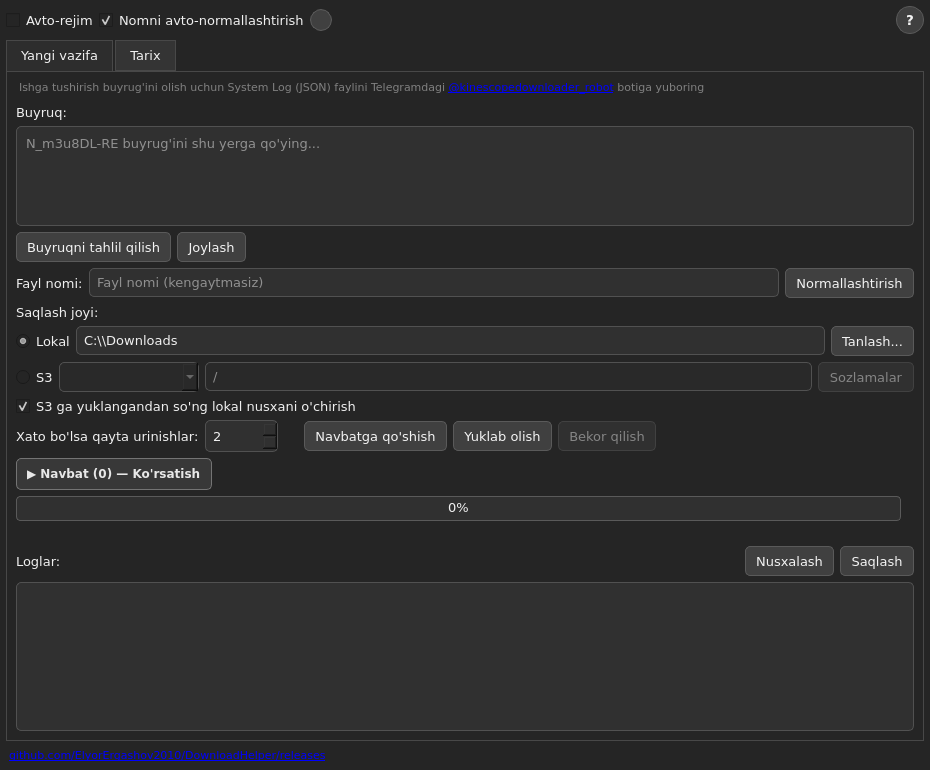
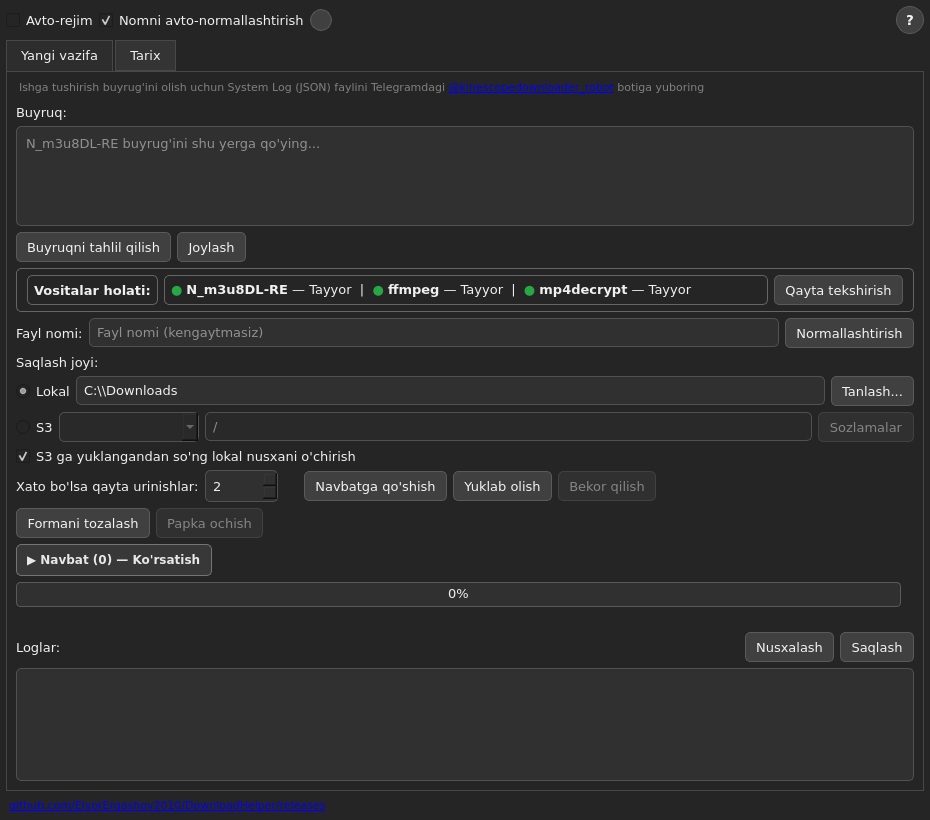
Add usability controls for tools, folders and form reset

diff --git a/app/main_window.py b/app/main_window.py
@@ -8,9 +8,10 @@ from dataclasses import dataclass
 from PySide6.QtWidgets import (
     QMainWindow, QTabWidget, QWidget, QVBoxLayout, QHBoxLayout,
     QPushButton, QLabel, QMessageBox, QSpinBox, QFileDialog, QListWidget,
-    QListWidgetItem, QCheckBox, QApplication,
+    QListWidgetItem, QCheckBox, QApplication, QFrame,
 )
-from PySide6.QtCore import QSize, Qt, QTimer
+from PySide6.QtCore import QSize, Qt, QTimer, QUrl
+from PySide6.QtGui import QDesktopServices
 
 from app.core.command_parser import parse_command, ParsedCommand
 from app.core.normalizer import normalize_filename
@@ -69,6 +70,7 @@ class MainWindow(QMainWindow):
         self._queue: list[QueueItem] = []
         self._s3_failures: list[S3Failure] = []
         self._parsed: ParsedCommand | None = None
+        self._last_output_dir = ""
 
         # Jarayon yangilanishini cheklash (200 ms da bir martadan ko'p emas)
         self._progress_timer = QTimer(self)
@@ -137,6 +139,7 @@ class MainWindow(QMainWindow):
 
         # S3 profillarini kombo-boksga yuklash
         self._refresh_s3_profiles()
+        self._refresh_tools_status()
 
     # ── «Yangi vazifa» varag'i ───────────────────────────────────
 
@@ -149,6 +152,26 @@ class MainWindow(QMainWindow):
         self._cmd_input.paste_btn.clicked.connect(self._on_paste_command)
         self._cmd_input.auto_parse_requested.connect(self._on_parse)
         layout.addWidget(self._cmd_input)
+
+        # Yordamchi executable fayllarning holati — yuklashdan oldin ham ko'rinadi.
+        self._tools_status_box = QFrame()
+        self._tools_status_box.setStyleSheet(
+            "QFrame { border: 1px solid #666666; border-radius: 5px; padding: 2px; }"
+        )
+        tools_layout = QHBoxLayout(self._tools_status_box)
+        tools_layout.setContentsMargins(8, 4, 8, 4)
+        tools_title = QLabel("Vositalar holati:")
+        tools_title.setStyleSheet("font-weight: bold;")
+        tools_layout.addWidget(tools_title)
+        self._tools_status_label = QLabel()
+        self._tools_status_label.setWordWrap(True)
+        self._tools_status_label.setTextFormat(Qt.TextFormat.RichText)
+        tools_layout.addWidget(self._tools_status_label, 1)
+        self._tools_status_refresh_btn = QPushButton("Qayta tekshirish")
+        self._tools_status_refresh_btn.setToolTip("Yordamchi vositalar holatini qayta tekshirish")
+        self._tools_status_refresh_btn.clicked.connect(self._refresh_tools_status)
+        tools_layout.addWidget(self._tools_status_refresh_btn)
+        layout.addWidget(self._tools_status_box)
 
         self._file_name = FileNameEdit()
         self._file_name.normalize_btn.clicked.connect(self._on_normalize)
@@ -180,6 +203,20 @@ class MainWindow(QMainWindow):
         ctrl_row.addWidget(self._stop_btn)
         ctrl_row.addStretch()
         layout.addLayout(ctrl_row)
+
+        # Ikkinchi darajali amallar — joriy yuklashni tasodifan buzmaydi.
+        utility_row = QHBoxLayout()
+        self._clear_form_btn = QPushButton("Formani tozalash")
+        self._clear_form_btn.setToolTip("Buyruq, nom, progress va loglarni tozalash")
+        self._clear_form_btn.clicked.connect(self._on_clear_form)
+        utility_row.addWidget(self._clear_form_btn)
+        self._open_folder_btn = QPushButton("Papka ochish")
+        self._open_folder_btn.setToolTip("Oxirgi muvaffaqiyatli yuklash papkasini ochish")
+        self._open_folder_btn.setEnabled(False)
+        self._open_folder_btn.clicked.connect(self._on_open_output_folder)
+        utility_row.addWidget(self._open_folder_btn)
+        utility_row.addStretch()
+        layout.addLayout(utility_row)
 
         # Ochiladigan navbat — ramkali tugma, tugma ekanligi aniq ko'rinadi.
         queue_header = QHBoxLayout()
@@ -319,6 +356,67 @@ class MainWindow(QMainWindow):
         self._dest_panel.load_s3_profiles(names, active)
 
     # ── Umumiy slotlar ───────────────────────────────────────────
+
+    def _refresh_tools_status(self):
+        """Yordamchi executable fayllar topilganini UI'da ko'rsatadi."""
+        statuses = check_all_tools()
+        parts = []
+        paths = []
+        for status in statuses:
+            if status.found:
+                parts.append(
+                    f'<span style="color:#28a745;">●</span> '
+                    f'<b>{status.name}</b> — Tayyor'
+                )
+                paths.append(f'{status.name}: {status.path}')
+            else:
+                parts.append(
+                    f'<span style="color:#d9534f;">●</span> '
+                    f'<b>{status.name}</b> — Topilmadi'
+                )
+                paths.append(f'{status.name}: Topilmadi')
+        self._tools_status_label.setText("&nbsp;&nbsp;|&nbsp;&nbsp;".join(parts))
+        self._tools_status_label.setToolTip("\n".join(paths))
+        return statuses
+
+    def _on_clear_form(self):
+        """Yangi vazifa uchun joriy forma ma'lumotlarini tozalaydi."""
+        if self._downloader.is_running() or (self._uploader and self._uploader.isRunning()):
+            return
+        self._cmd_input.set_text("")
+        self._cmd_input.text_edit.setFocus()
+        self._file_name.set_name("")
+        self._parsed = None
+        self._progress_timer.stop()
+        self._stream_lines.clear()
+        self._full_log.clear()
+        self._progress.reset()
+        self._progress.set_status("")
+        self._log_panel.clear()
+
+    def _set_last_output_directory(self, directory: str):
+        """Oxirgi muvaffaqiyatli yuklash papkasini eslab qoladi."""
+        if directory and os.path.isdir(directory):
+            self._last_output_dir = directory
+            self._open_folder_btn.setEnabled(True)
+
+    def _on_open_output_folder(self):
+        """Oxirgi tayyor fayl joylashgan lokal papkani tizim fayl oynasida ochadi."""
+        if not self._last_output_dir or not os.path.isdir(self._last_output_dir):
+            QMessageBox.information(
+                self,
+                "Papka topilmadi",
+                "Avval muvaffaqiyatli yuklashni yakunlang.",
+            )
+            self._open_folder_btn.setEnabled(False)
+            return
+        opened = QDesktopServices.openUrl(QUrl.fromLocalFile(self._last_output_dir))
+        if not opened:
+            QMessageBox.warning(
+                self,
+                "Xato",
+                "Papka oynasini ochib bo'lmadi.",
+            )
 
     def _on_parse(self):
         raw = self._cmd_input.get_text()
@@ -632,6 +730,7 @@ class MainWindow(QMainWindow):
 
     def _process_next_in_queue(self):
         if not self._queue:
+            self._clear_form_btn.setEnabled(True)
             self._update_queue_label()
             if self._s3_failures:
                 n = len(self._s3_failures)
@@ -670,8 +769,8 @@ class MainWindow(QMainWindow):
             self._start_s3_upload(item)
             return
 
-        # Vositalarni tekshirish
-        statuses = check_all_tools()
+        # Vositalarni tekshirish va holat panelini yangilash
+        statuses = self._refresh_tools_status()
         self._log(format_tool_check_log(statuses))
         missing = [s.name for s in statuses if not s.found]
         if missing:
@@ -723,6 +822,7 @@ class MainWindow(QMainWindow):
         self._log(f"Ishga tushirish: {' '.join(args)}\n\n")
         self._download_btn.setEnabled(False)
         self._stop_btn.setEnabled(True)
+        self._clear_form_btn.setEnabled(False)
         self._downloader.start(args)
 
     def _on_stop(self):
@@ -754,6 +854,7 @@ class MainWindow(QMainWindow):
         self._progress_timer.stop()
         self._download_btn.setEnabled(True)
         self._stop_btn.setEnabled(False)
+        self._clear_form_btn.setEnabled(True)
         self._progress.set_finished(False)
         self._progress.set_status("Bekor qilindi")
         if not item or not item.task_id:
@@ -872,6 +973,7 @@ class MainWindow(QMainWindow):
             self._start_s3_upload(item)
         else:
             self._progress.set_finished(True)
+            self._set_last_output_directory(item.save_dir)
             if item.task_id:
                 self._task_mgr.update_status(item.task_id, "Done")
                 self._save_task_log(item.task_id)
@@ -888,6 +990,7 @@ class MainWindow(QMainWindow):
         self._progress.reset()
         self._progress.set_status("S3 ga yuklanmoqda...")
         self._stop_btn.setEnabled(True)
+        self._clear_form_btn.setEnabled(False)
         self._log("\nS3 ga yuklash boshlanmoqda...\n")
 
         # Saqlangan yo'l bo'lsa (S3 qayta urinish), shuni ishlatamiz
@@ -964,6 +1067,8 @@ class MainWindow(QMainWindow):
                 "S3 xatosi", f"{item.name} — {message}", success=False
             )
         self._progress.set_finished(success)
+        if success and item:
+            self._set_last_output_directory(item.save_dir)
         self._current_item = None
         self._uploader = None
         self._download_btn.setEnabled(True)

diff --git a/app/dialogs/help_dialog.py b/app/dialogs/help_dialog.py
@@ -43,6 +43,11 @@ Yuklash boshlanganda dastur uchala vositaning mavjudligini avtomatik
 tekshiradi va natijani logga chiqaradi. Agar biror vosita topilmasa —
 yuklash boshlanmaydi.</p>
 
+<p><b>Vositalar holati</b><br>
+Buyruq qatori ostidagi panel N_m3u8DL-RE, ffmpeg va mp4decrypt topilganini
+<b>Tayyor</b> yoki <b>Topilmadi</b> holatida ko'rsatadi. Fayllarni dastur
+papkasiga qo'ygandan keyin <b>«Qayta tekshirish»</b> tugmasini bosing.</p>
+
 <hr>
 
 <h3>«Yangi vazifa» varag'i</h3>
@@ -104,6 +109,10 @@ tozalash mumkin.</p>
 <ul>
   <li><b>«Yuklab olish»</b> — yuklashni (yoki navbatni) boshlaydi</li>
   <li><b>«Bekor qilish»</b> — joriy yuklashni to'xtatadi va navbatni tozalaydi</li>
+  <li><b>«Papka ochish»</b> — oxirgi muvaffaqiyatli yuklashning lokal papkasini
+      Windows Explorer'da ochadi</li>
+  <li><b>«Formani tozalash»</b> — buyruq, nom, progress va loglarni tozalaydi;
+      Lokal/S3 sozlamalari hamda navbat saqlanadi</li>
 </ul>
 
 <p><b>8. Jarayon va loglar</b><br>

diff --git a/README.md b/README.md
@@ -38,9 +38,11 @@ Hammasi bir papkada bo'lishi kerak.
 
 1. GitHub **Releases** sahifasidan ZIP faylni yuklab oling va Extract All qiling.
 2. To'rtta `.exe` fayl bir papkada turganini tekshiring.
-3. `DownloadHelper.exe`ni oching.
+3. `DownloadHelper.exe`ni oching va **Vositalar holati** panelida uchala vosita
+   `Tayyor` ekanini tekshiring.
 4. Telegram bot qaytargan N_m3u8DL-RE buyrug'ini nusxalang va **«Joylash»**ni bosing.
 5. Saqlash joyini tanlang, so'ng **«Yuklab olish»**ni bosing.
+6. Yuklash tugagach **«Papka ochish»** orqali tayyor fayl joylashgan papkani oching.
 
 ### Windows imzosi va xavfsizlik
 
@@ -154,6 +156,14 @@ botiga yuboring. Bot N_m3u8DL-RE uchun tayyor buyruqni qaytaradi.
 - **«Normallashtirish»** — kirillni lotinchaga o'giradi, probel va maxsus belgilarni
   pastki chiziqqa almashtiradi («Ўзбек видео» → `Uzbek_video`)
 
+#### Vositalar holati
+- **«Vositalar holati»** paneli N_m3u8DL-RE, ffmpeg va mp4decrypt topilganini
+  darhol ko'rsatadi: `Tayyor` yoki `Topilmadi`
+- Fayllarni dastur papkasiga qo'ygandan so'ng **«Qayta tekshirish»** tugmasini
+  bosing
+- Biror vosita `Topilmadi` holatida bo'lsa, yuklashni boshlashdan oldin uni
+  dastur joylashgan papkaga qo'ying
+
 #### Saqlash joyi
 - **Lokal** — **«Tanlash...»** tugmasi bilan papka tanlanadi. Oxirgi papka seanslar
   orasida eslab qolinadi
@@ -194,6 +204,13 @@ botiga yuboring. Bot N_m3u8DL-RE uchun tayyor buyruqni qaytaradi.
 - N_m3u8DL-RE chiqishi real vaqtda ko'rsatiladigan log paneli
 - **«Nusxalash»** va **«Saqlash»** tugmalari logni buferga nusxalash yoki faylga
   saqlash imkonini beradi
+
+#### Yuklash tugagach
+- **«Papka ochish»** — oxirgi muvaffaqiyatli yuklashning lokal papkasini Windows
+  Explorer'da ochadi
+- **«Formani tozalash»** — buyruq, fayl nomi, progress va loglarni tozalab,
+  yangi vazifaga tayyorlaydi; Lokal/S3 sozlamalari hamda navbat saqlanadi
+- Yuklash davom etayotgan paytda Formani tozalash ishlamaydi
 
 #### Bo'sh joyni tekshirish
 - Har bir yuklashdan oldin kamida 500 MB bo'sh joy borligi tekshiriladi. Joy

diff --git a/CHANGELOG.md b/CHANGELOG.md
@@ -14,6 +14,13 @@ saqlanadi.
   nomni normallashtirish va yuklash/navbat amallarini bajaradi.
 - Navbat tugmasi aniq ko'rinishi uchun ramka, hover holati va
   **«Ko'rsatish / Yashirish»** yozuvlari qo'shildi.
+- **«Vositalar holati»** paneli va **«Qayta tekshirish»** tugmasi qo'shildi.
+  N_m3u8DL-RE, ffmpeg va mp4decrypt topilgan/topilmagani yuklashdan oldin
+  ko'rinadi.
+- Yuklash tugagach **«Papka ochish»** tugmasi oxirgi lokal yuklash papkasini
+  ochadi.
+- **«Formani tozalash»** tugmasi buyruq, nom, progress va loglarni yangi vazifa
+  uchun tozalaydi.
 - README'ga interfeys screenshotsi, qisqa boshlash bo'limi va fikr bildirish
   yo'li qo'shildi.
 - `CONTRIBUTING.md` orqali xato va taklif yuborish tartibi qo'shildi.
